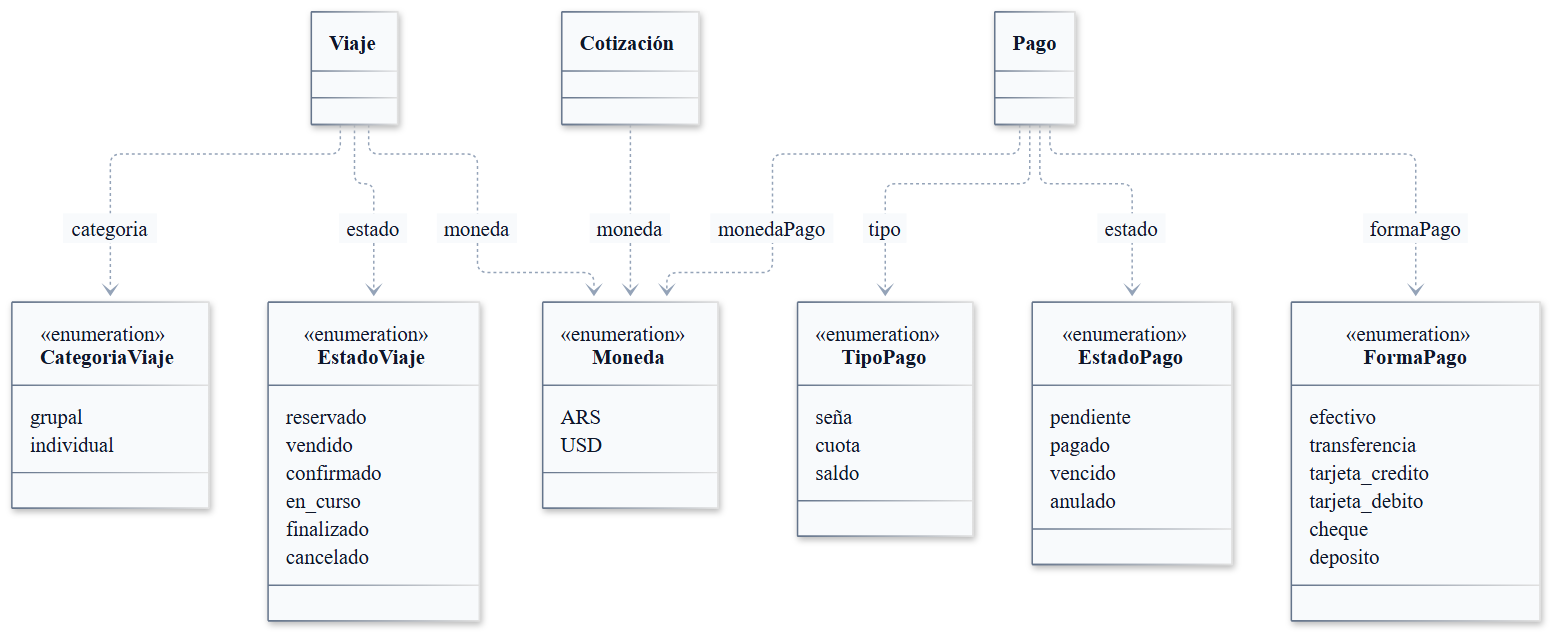
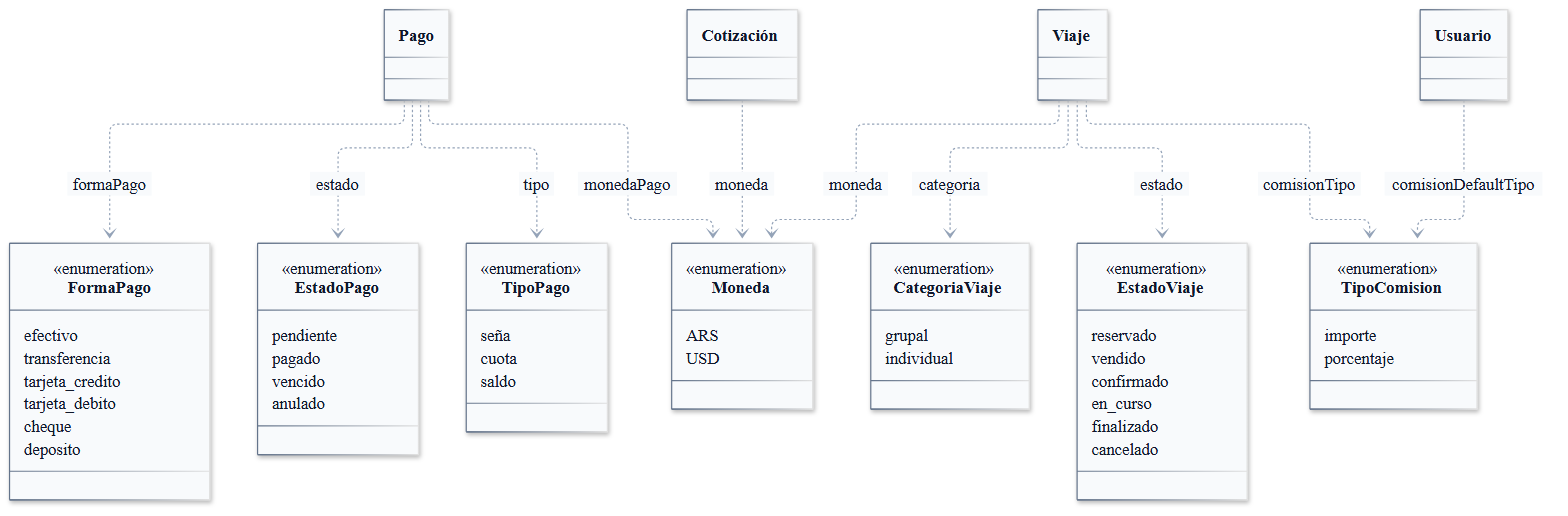
DEC-0013: fecha de cobro, tabla de configuración, tipo de comisión y acceso a redes (ER, clases, entidades y SQL)

diff --git a/05-Diseño/Datos/Modelo de datos SQL.md b/05-Diseño/Datos/Modelo de datos SQL.md
@@ -13,21 +13,23 @@ tags:: #tipo/analisis #estado/borrador #pc/pc1
 > Responde a la lámina del PC1 «Modelo de datos SQL» (paso **F2** del plan). El script es [`rumbo.sql`](rumbo.sql), en esta misma carpeta. Se deriva del [[DGM-ER]], que es la fuente: si cambia el ER, se cambia primero el ER y después el script.
 
 ## Qué contiene
-- **14 tablas:** las 13 entidades del dominio más la tabla asociativa `viaje_hotel`, con los mismos nombres del [[DGM-ER]] en minúscula.
-- **18 enumeraciones nativas** (`CREATE TYPE … AS ENUM`), con los valores del ER.
+- **15 tablas:** las 13 entidades del dominio, la tabla asociativa `viaje_hotel` y la tabla de parámetros `configuracion` (una sola fila, [[DEC-0013 Datos que faltaban en el ER|DEC-0013]]), con los mismos nombres del [[DGM-ER]] en minúscula.
+- **19 enumeraciones nativas** (`CREATE TYPE … AS ENUM`), con los valores del ER.
 - **Claves:** toda clave primaria es `uuid` con `gen_random_uuid()`, que viene incluida en PostgreSQL 13 o superior sin extensiones.
-- **Auditoría** ([[DEC-0008 Autenticación propia y rol de vendedor freelance|DEC-0008]]): las 13 tablas de entidad llevan `created_by`, `updated_by`, `created_at` y `updated_at`. `created_by` y `updated_by` son **nullable**: vacío significa «lo hizo el proceso automático». `viaje_hotel` no las lleva porque hereda la auditoría del viaje. Las completa `core.db` en la API ([[ARQ — Vista general]]).
+- **Auditoría** ([[DEC-0008 Autenticación propia y rol de vendedor freelance|DEC-0008]]): las 13 tablas de entidad y `configuracion` llevan `created_by`, `updated_by`, `created_at` y `updated_at`. `created_by` y `updated_by` son **nullable**: vacío significa «lo hizo el proceso automático». `viaje_hotel` no las lleva porque hereda la auditoría del viaje. Las completa `core.db` en la API ([[ARQ — Vista general]]).
 - **Restricciones del modelo:**
   - `alerta`: a lo sumo un origen (`viaje_id`, `pago_id`, `oportunidad_id` o `cliente_id`); ninguno en una alerta manual suelta.
   - `viaje_hotel`: `id` propio, índice **no único** en `(viaje_id, hotel_id)` y **único** en `(viaje_id, orden)`, porque el mismo hotel puede aparecer en dos tramos del mismo viaje ([[DEC-0003 Relación Viaje–Hotel y Reseña|DEC-0003]]).
   - `viaje.oportunidad_id` es único: una oportunidad deriva en a lo sumo un viaje.
   - `viaje.ganancia` y `viaje.margen` son **columnas calculadas** (`precio_venta − costo` y `ganancia / precio_venta`, [[DEC-0007 Modelo económico — ganancia, margen y comisión de vendedor|DEC-0007]]).
+  - Comisión ([[DEC-0013 Datos que faltaban en el ER|DEC-0013]]): si es `porcentaje`, no pasa de 100; en `usuario`, el tipo y el valor por defecto van juntos o no van.
+  - `configuracion` admite una sola fila (`id = 1`).
   - Chequeos de sentido común: fechas de regreso, salida y check-out que no quedan antes de las de inicio; puntaje de reseña de 1 a 5; montos no negativos; al menos un pasajero.
 - **Bajas lógicas:** ninguna FK borra en cascada, porque en Rumbo nada se elimina físicamente.
 
 ## Lo que queda en la API y no en la base
 - **Todo viaje tiene al menos un pago** (`VIAJE ||--|{ PAGO`): una FK no puede exigir filas hijas, así que lo garantiza el servicio de CU-07.
-- Los **valores por defecto configurables** (vigencia de la cotización, anticipación de las alertas) los calcula la API al crear el registro.
+- Las **fechas que dependen de un parámetro** (vencimiento de la cotización, fecha de la alerta `salida`) las calcula la API al crear el registro, leyendo `configuracion`.
 - Las **transiciones de estado** de los `EST-*` viven en `negocio/estados/`.
 
 ## Criterios de escritura
@@ -35,9 +37,9 @@ tags:: #tipo/analisis #estado/borrador #pc/pc1
 - Largos de `varchar` y precisión de `numeric` (`numeric(14,2)` para importes y `numeric(14,4)` para el tipo de cambio) son decisiones de implementación, no datos del negocio.
 
 ## Validación
-Se validó el 29/09/26 en un **PostgreSQL 18.3** local, en un clúster temporal creado solo para la prueba y borrado al terminar. El script corre completo sin errores y deja 14 tablas y 18 enumeraciones. Además se probaron, dentro de una transacción que se deshizo:
+Se validó el 29/09/26 en un **PostgreSQL 18.3** local, en un clúster temporal creado solo para la prueba y borrado al terminar. El script corre completo sin errores y deja 15 tablas y 19 enumeraciones, con la fila de `configuracion` cargada con los valores validados con la agencia (1 mes, 7 días y 6 meses). Además se probaron, dentro de una transacción que se deshizo:
 - **Casos permitidos:** un usuario con `created_by` vacío, el mismo hotel en dos tramos del mismo viaje, una alerta manual sin origen y el cálculo de `ganancia` (250.000) y `margen` (0,25) para una venta de $ 1.000.000 con costo de $ 750.000.
-- **Casos rechazados, como se esperaba:** una alerta con dos orígenes, un `orden` repetido en el mismo viaje, dos viajes desde la misma oportunidad, un puntaje de 6, un regreso anterior a la salida, un valor de enum inexistente, un email de usuario repetido y una FK a un cliente inexistente.
+- **Casos rechazados, como se esperaba:** una alerta con dos orígenes, un `orden` repetido en el mismo viaje, dos viajes desde la misma oportunidad, un puntaje de 6, un regreso anterior a la salida, un valor de enum inexistente, un email de usuario repetido una FK a un cliente inexistente, una segunda fila de `configuracion`, una comisión de viaje mayor al 100 % y una comisión por defecto con tipo pero sin valor.
 
 Para repetir la prueba sobre una base vacía:
 ```bash

diff --git a/03-Dominio/Diagramas/DGM-ER.md b/03-Dominio/Diagramas/DGM-ER.md
@@ -34,6 +34,9 @@ erDiagram
         varchar email UK
         varchar password_hash "login propio, DEC-0008"
         enum rol "admin, empleado, dueño, freelance"
+        bool acceso_redes "capacidad de redes, DEC-0013"
+        enum comision_default_tipo "nullable, importe o porcentaje"
+        numeric comision_default_valor "nullable, default del vendedor"
     }
     CLIENTE {
         uuid id PK
@@ -83,7 +86,8 @@ erDiagram
         numeric costo "del operador"
         numeric ganancia "calculado, precio_venta - costo"
         numeric margen "calculado, ganancia / precio_venta"
-        numeric comision_vendedor "importe o porcentaje sobre la ganancia"
+        enum comision_tipo "importe, porcentaje"
+        numeric comision_vendedor "importe, o % sobre la ganancia"
     }
     PAGO {
         uuid id PK
@@ -96,6 +100,7 @@ erDiagram
         enum moneda_pago "nullable, se carga al cobrar"
         numeric tipo_cambio "nullable, si difiere de VIAJE.moneda"
         numeric monto_cobrado "nullable, real recibido"
+        date fecha_cobro "nullable, fecha efectiva del cobro"
     }
     DESTINO {
         uuid id PK
@@ -170,6 +175,12 @@ erDiagram
         enum estado_kanban "idea, en_produccion, listo, publicado, descartado"
         date fecha_publicacion "programada"
     }
+    CONFIGURACION {
+        smallint id PK "una sola fila"
+        int vigencia_cotizacion_meses "default 1"
+        int anticipacion_salida_dias "default 7"
+        int recontacto_meses "default 6"
+    }
 
     USUARIO ||--o{ VIAJE : gestiona
     USUARIO |o--o{ VIAJE : vende
@@ -209,6 +220,7 @@ erDiagram
 - **Auditoría:** [[DEC-0008 Autenticación propia y rol de vendedor freelance]] exige registrar **autor y fecha** de las acciones. **Decidido en la sync del 29/09:** `created_by` / `updated_by` (FK a `USUARIO`) y `created_at` / `updated_at` van en **todas las tablas de entidad**, operativas y catálogos (las 13 entidades; la tabla asociativa `VIAJE_HOTEL` hereda la auditoría de `VIAJE`). No se dibujan en el diagrama para no multiplicar las líneas hacia `USUARIO`. **`created_by` y `updated_by` son nullable** (aprobado el 29/09): lo que hace el proceso automático diario los deja **vacíos**, y un autor vacío se lee como «lo hizo el sistema». `created_at` y `updated_at` siempre se cargan.
 - `VIAJE.destino_id` y `HOTEL.destino_id` son FK a `DESTINO` (antes texto libre): ver [[DEC-0006 Destino como entidad de catálogo]]. `OPORTUNIDAD.destino_consultado` sigue siendo **texto libre** y se normaliza recién al derivar en `VIAJE`.
 - `VIAJE` suma `operador_id`, `vendedor_id`, `moneda`, `costo`, `ganancia`, `margen` y `comision_vendedor` — ver [[DEC-0007 Modelo económico — ganancia, margen y comisión de vendedor]] y [[DEC-0009 Operador-Proveedor como entidad de catálogo]] (sync 17/09). `ganancia` y `margen` son **calculados**: se pueden materializar como columnas generadas o resolver en la vista.
+- **Datos sumados al escribir el SQL** ([[DEC-0013 Datos que faltaban en el ER]], 29/09, a ratificar): `PAGO.fecha_cobro`; `VIAJE.comision_tipo` (`importe` o `porcentaje`); en `USUARIO`, `acceso_redes` y la comisión por defecto del vendedor (`comision_default_tipo` y `comision_default_valor`); y la tabla **`CONFIGURACION`**, de una sola fila, con los parámetros que edita `admin` (vigencia de la cotización, anticipación de la alerta `salida` y plazo del recontacto). `CONFIGURACION` es una tabla de parámetros, no una entidad del dominio, y no se relaciona con las demás. Con ella el esquema tiene **15 tablas**.
 - `COTIZACION.items` se modela como **`jsonb`**, no como tabla propia: decidido el 21/09 no promoverlo a entidad ([[DGM — Diagrama de clases]], punto 4). Si más adelante hacen falta reportes por concepto, se reabre.
 - Relación N:M `VIAJE`–`HOTEL` y objeto de la `RESENA` (Hotel + Cliente, con Viaje opcional): ver [[DEC-0003 Relación Viaje–Hotel y Reseña]].
 

diff --git a/05-Diseño/Decisiones/DEC-0013 Datos que faltaban en el ER.md b/05-Diseño/Decisiones/DEC-0013 Datos que faltaban en el ER.md
@@ -1,0 +1,46 @@
+---
+tipo: decision
+estado: en-revision
+modulo: [economia, configuracion, seguridad]
+decisores: [Nahuel]
+fecha_aprobacion:
+supersede:
+actualizado: 29/09/26
+---
+# DEC-0013 Datos que faltaban en el ER
+
+tags:: #tipo/decision #estado/en-revision #pc/pc1
+
+> ⏳ **Aprobada por Nahuel el 29/09/26**, al escribir el script SQL (F2) y el contrato OpenAPI (F1). Se ratifica con el equipo en el cierre del día 2 (A6), junto con ARQ.
+
+## Contexto
+Al pasar el [[DGM-ER]] a SQL aparecieron cuatro datos que los casos de uso y las decisiones ya piden, pero que el ER no tenía dónde guardar:
+1. [[CU-12 Registrar cobro de un pago|CU-12]] pide la **fecha efectiva del cobro**, y `PAGO` no tenía esa columna.
+2. La **vigencia de la cotización** (1 mes), la **anticipación de la alerta `salida`** (7 días) y el **plazo del recontacto** (6 meses) son configurables por `admin` ([[CU-06 Emitir cotización|CU-06]], [[CU-07 Confirmar reserva|CU-07]], [[CU-30 Sugerir recontacto de clientes|CU-30]]), pero no había tabla de parámetros.
+3. La comisión del vendedor es **importe o porcentaje**, con **default por vendedor** y override por viaje ([[DEC-0007 Modelo económico — ganancia, margen y comisión de vendedor|DEC-0007]], [[CU-13 Configurar porcentaje de comisión|CU-13]]), pero el ER solo tenía `VIAJE.comision_vendedor` como número, sin tipo y sin default en `USUARIO`.
+4. El **acceso al módulo de redes** es una capacidad que asigna `admin` ([[DEC-0005 Autenticación y modelo de roles|DEC-0005]]), pero `USUARIO` no tenía dónde guardarla.
+
+## Decisión
+1. **`PAGO.fecha_cobro`** (`date`, nullable): se carga al cobrar, junto con `forma_pago` y `moneda_pago`, y se borra si se revierte el cobro.
+2. **Tabla `CONFIGURACION` de una sola fila**, con columnas tipadas y los valores validados con la agencia como default: `vigencia_cotizacion_meses` = 1, `anticipacion_salida_dias` = 7 y `recontacto_meses` = 6. Es una tabla de parámetros, **no una entidad del dominio**: el dominio sigue teniendo 13 entidades. La edita `admin`.
+3. **Comisión con tipo y valor:** nuevo enum `tipo_comision` (`importe`, `porcentaje`; el porcentaje es sobre la ganancia). `USUARIO` suma `comision_default_tipo` y `comision_default_valor` (ambos nullable, porque no todo usuario vende). `VIAJE` suma `comision_tipo` junto a `comision_vendedor`. Cambiar el default de un vendedor no recalcula los viajes ya registrados.
+4. **`USUARIO.acceso_redes`** (`boolean`, default `false`). `admin` y `dueño` tienen acceso por su rol, sin importar el valor.
+
+## Alternativas consideradas
+| Opción | Pros | Contras | ¿Elegida? |
+|---|---|---|---|
+| Fecha del cobro = `updated_at` del pago | Sin columna nueva | Se pierde si se cobra con fecha anterior o se edita después | ❌ |
+| Parámetros en variables de entorno | Simple | No los puede cambiar `admin` desde la app | ❌ |
+| Parámetros como tabla clave-valor | Flexible | Pierde los tipos y los CHECK de la base | ❌ |
+| Guardar siempre la comisión como importe ya calculado | Más simple | Se pierde qué porcentaje se aplicó | ❌ |
+
+## Impacto
+- [[DGM-ER]], [[DGM — Diagrama de clases]] (nuevo enum `TipoComision`: son 19) y las notas de [[Pago]], [[Usuario]] y [[Viaje]].
+- [[Modelo de datos SQL]]: pasa a 15 tablas y 19 enumeraciones.
+- Contrato OpenAPI (F1): los esquemas de `Viaje` y `Pago` y los endpoints de configuración.
+
+## Decisores y fecha
+- Nahuel — aprobada el 29/09/26; a ratificar con el equipo.
+
+## Vínculo con el código (a partir de PC2)
+- Rama: `-` · Commits: `-`

diff --git a/03-Dominio/Diagramas/DGM — Diagrama de clases.md b/03-Dominio/Diagramas/DGM — Diagrama de clases.md
@@ -43,6 +43,9 @@ classDiagram
         +String nombre
         +String email
         +RolUsuario rol
+        +Bool accesoRedes
+        +TipoComision comisionDefaultTipo
+        +Decimal comisionDefaultValor
     }
     class Cliente {
         +UUID id
@@ -84,6 +87,7 @@ classDiagram
         +Decimal costo
         +Decimal ganancia
         +Decimal margen
+        +TipoComision comisionTipo
         +Decimal comisionVendedor
     }
     class Pago {
@@ -96,6 +100,7 @@ classDiagram
         +Moneda monedaPago
         +Decimal tipoCambio
         +Decimal montoCobrado
+        +Date fechaCobro
     }
     class Operador {
         +UUID id
@@ -209,7 +214,7 @@ classDiagram
 
 ## Enumeraciones del dominio
 
-Las **18 enumeraciones** son parte del mismo modelo; se muestran en tres bandas agrupadas por módulo para que cada una entre legible en una hoja. La caja de la clase va **sin atributos** (ya están en la vista principal) y cada **dependencia punteada** indica qué atributo usa la enumeración. `Moneda` es la única compartida: la usan [[Viaje]], [[Cotización]] y [[Pago]].
+Las **19 enumeraciones** son parte del mismo modelo; se muestran en tres bandas agrupadas por módulo para que cada una entre legible en una hoja. La caja de la clase va **sin atributos** (ya están en la vista principal) y cada **dependencia punteada** indica qué atributo usa la enumeración. `Moneda` es la única compartida: la usan [[Viaje]], [[Cotización]] y [[Pago]].
 
 ### 1 · CRM y seguridad
 
@@ -314,6 +319,11 @@ classDiagram
         cheque
         deposito
     }
+    class TipoComision {
+        <<enumeration>>
+        importe
+        porcentaje
+    }
     Viaje ..> CategoriaViaje : categoria
     Viaje ..> EstadoViaje : estado
     Viaje ..> Moneda : moneda
@@ -322,6 +332,8 @@ classDiagram
     Pago ..> TipoPago : tipo
     Pago ..> EstadoPago : estado
     Pago ..> FormaPago : formaPago
+    Viaje ..> TipoComision : comisionTipo
+    Usuario ..> TipoComision : comisionDefaultTipo
 ```
 
 ### 3 · Catálogo, post-venta, alertas y redes
@@ -421,6 +433,7 @@ Se señalaron sin elegir una versión en silencio, según [[CLAUDE|CLAUDE.md#Ord
 - ✅ Lo resuelto el 21/09 ya está propagado a [[DGM-ER]] (`VIAJE ||--|{ PAGO` y los 4 orígenes de `ALERTA`) y a la nota de [[Viaje]].
 - ✅ El [[DGM-ER]] quedó **completo y coherente** con este diagrama el 21/09: sumó los atributos de las 14 tablas y las 4 relaciones que le faltaban (`USUARIO`–`ALERTA`, `USUARIO`–`CLIENTE`, `USUARIO`–`OPORTUNIDAD`, `DESTINO`–`REQUISITO_DESTINO`).
 - ✅ Auditoría (sync 29/09): `created_by`/`updated_by`/`created_at`/`updated_at` en **todas** las tablas de entidad (operativas y catálogos); no se dibujan para no multiplicar las líneas hacia `Usuario`. Ver [[DGM-ER]].
+- ⏳ [[DEC-0013 Datos que faltaban en el ER]] (29/09, a ratificar): `Pago.fechaCobro`, `Viaje.comisionTipo`, `Usuario.accesoRedes` y la comisión por defecto del vendedor, con el nuevo enum `TipoComision`.
 - Renderizar el PNG (mermaid-cli, motor ELK) cuando el diagrama se incorpore a un entregable — ver [[Entregables — índice]].
 
 ## Relacionado

diff --git a/03-Dominio/MOC — Modelo de dominio.md b/03-Dominio/MOC — Modelo de dominio.md
@@ -16,7 +16,7 @@ tags:: #tipo/diagrama #tipo/modulo #estado/en-revision #pc/pc1
 [[Usuario]] · [[Cliente]] · [[Oportunidad]] · [[Viaje]] · [[Pago]] · [[Hotel]] · [[Reseña]] · [[Alerta]] · [[Cotización]] · [[ContenidoRed]] · [[Destino]] · [[RequisitoDestino]] · [[Operador]] ⚠(nueva 17/09, [[DEC-0009 Operador-Proveedor como entidad de catálogo]])
 
 ## Diagrama de clases
-- Ver [[DGM — Diagrama de clases]] (vista principal + las 18 enumeraciones). **El borrador que vivía acá se movió a esa nota el 21/09**, para que este MOC quede corto y haya una sola fuente del diagrama.
+- Ver [[DGM — Diagrama de clases]] (vista principal + las 19 enumeraciones). **El borrador que vivía acá se movió a esa nota el 21/09**, para que este MOC quede corto y haya una sola fuente del diagrama.
 - Cambios respecto del borrador: los FK dejan de listarse como atributos (los expresan las asociaciones), las enumeraciones pasan a clases `<<enumeration>>` y `viaje_hotel` se promueve a la clase asociativa `ViajeHotel`. Detalle y motivo en la sección *Convenciones de lectura* de esa nota.
 - Las **4 incoherencias detectadas las resolvió Nahuel el 21/09** (ratificadas en la sync del 29/09) y ya están propagadas a [[DGM-ER]] y a la nota de [[Viaje]]: `Viaje`–`Pago` es **`1..*`** (todo viaje tiene al menos un pago: [[CU-07 Confirmar reserva]] incluye [[CU-11 Definir plan de cuotas|CU-11]]), `Viaje`–`Alerta` es **`0..1` → `0..*`**, el **origen de la `Alerta`** en el ER se modela con **cuatro FK nullable + CHECK** (no polimórfico), y `Cotización.items` **queda como atributo**, sin entidad propia.
 - ✅ El [[DGM-ER]] quedó **completo** el 21/09: atributos de las 14 tablas y las 4 relaciones que le faltaban (`USUARIO`–`ALERTA`, `USUARIO`–`CLIENTE`, `USUARIO`–`OPORTUNIDAD`, `DESTINO`–`REQUISITO_DESTINO`). Los dos diagramas usan el motor **ELK** (líneas rectas ortogonales).

diff --git a/05-Diseño/Arquitectura/ARQ — Vista general.md b/05-Diseño/Arquitectura/ARQ — Vista general.md
@@ -180,7 +180,7 @@ flowchart LR
 |---|---|---|---|
 | **1 · Presentación** | `presentacion/` | Recibe el pedido HTTP, valida el JSON con los esquemas Pydantic (que publican el contrato OpenAPI), identifica al usuario validando su token con `core.seguridad` y llama a un servicio. `jobs/diario.py` es el otro punto de entrada: lo ejecuta el scheduler a las 00:00. | No tiene reglas de negocio ni consultas. |
 | **2 · Lógica de negocio** | `negocio/` | Los **servicios** orquestan un caso de uso completo en **una transacción**: por ejemplo, confirmar la reserva crea el `Viaje`, el plan de cuotas y las alertas, y pasa la `Oportunidad` a `ganada` (CU-07). Los **estados** aplican las transiciones de los `EST-*` y rechazan las inválidas. Las **políticas** deciden qué puede ver y editar cada rol. Los **prompts** definen qué se le pide a la IA y con qué límites. | No arma SQL ni conoce HTTP. |
-| **3 · Acceso a datos** | `datos/` | Los **modelos** mapean las 14 tablas del [[DGM-ER]] y los **repositorios** buscan y guardan, usando la sesión de `core.db`. | No decide reglas de negocio. |
+| **3 · Acceso a datos** | `datos/` | Los **modelos** mapean las 15 tablas del [[DGM-ER]] y los **repositorios** buscan y guardan, usando la sesión de `core.db`. | No decide reglas de negocio. |
 | **core** | `core/` | **`config`** lee la configuración del entorno. **`db`** crea el motor y la sesión de SQLAlchemy (una transacción por pedido) y completa la auditoría antes de cada guardado. **`seguridad`** hashea contraseñas y emite y valida tokens. **`ia`** habla con la API de Claude por LangChain. | No conoce ninguna capa ni tiene reglas del negocio. |
 
 **Cómo se reparten las reglas transversales:**

diff --git a/00-Inicio/Estado del proyecto.md b/00-Inicio/Estado del proyecto.md
@@ -68,6 +68,7 @@ Los tres tomamos **los tres roles** (Coordinador de vault · Guardián del domin
 - ✅ **Arquitectura en tres capas + `core`** (A3, Nahuel): ver *Vista lógica del backend* en [[ARQ — Vista general]].
 - ✅ **Auditoría del proceso automático** (aprobado 29/09, Nahuel con el equipo): lo que hace `jobs.diario` queda con `created_by`/`updated_by` **vacíos** (= «lo hizo el sistema»), así que esas columnas son **nullable** en el script SQL (F2). ✅ Anotado en [[DGM-ER]] junto a la nota de auditoría.
 - ✅ **Ajustes del túnel** (aprobado 29/09): ✅ aplicados en [[DEC-0011 Infraestructura de despliegue on-premise]] y en la vista de despliegue de ARQ (PNG regenerado): (1) quinto contenedor `cloudflared` en el Compose, con el token en el `.env` del servidor; (2) riesgo aceptado: Cloudflare termina el TLS y ve el tráfico descifrado; (3) **todos** los usuarios, también desde la red local, entran por la URL del túnel (la entrada local directa queda solo como respaldo si se cae internet).
+- ⏳ **[[DEC-0013 Datos que faltaban en el ER]]** (aprobada por Nahuel el 29/09 al escribir F2; **a ratificar en A6**): `Pago.fecha_cobro`, tabla `configuracion` de una fila (vigencia de cotización, anticipación de `salida` y recontacto), comisión con tipo (`importe`/`porcentaje`) y default por vendedor en `Usuario`, y `Usuario.acceso_redes`. Ya propagada a ER, clases, entidades y SQL.
 
 ### Día 1 — mié 30/09: construir las bases
 - **Nahuel:** A2 (vista de despliegue con DEC-0011) → A3 (vista lógica del backend) → **F2** script SQL validado contra un PostgreSQL local.

diff --git a/00-Inicio/Bitácora de sesiones.md b/00-Inicio/Bitácora de sesiones.md
@@ -30,6 +30,10 @@ Es **obligatorio** nombrar a la persona que hizo la sesión.
 - **Pendiente:** …
 ```
 
+## 29/09/26 — Nahuel (Claude Opus 5.5) — DEC-0013: datos que faltaban en el ER
+- **Hecho:** Al preparar F1 aparecieron cuatro datos que los CU piden y el ER no guardaba. Nahuel aprobó las cuatro propuestas y quedaron en [[DEC-0013 Datos que faltaban en el ER]] (`en-revision`, a ratificar en A6): `PAGO.fecha_cobro`, tabla `CONFIGURACION` de una fila (1 mes, 7 días y 6 meses), comisión con `tipo_comision` en `VIAJE` y default por vendedor en `USUARIO`, y `USUARIO.acceso_redes`. Propagado a [[DGM-ER]], [[DGM — Diagrama de clases]] (19 enums), [[Pago]], [[Usuario]], [[Viaje]], ARQ y [[Modelo de datos SQL]].
+- **Verificado:** PNG de clases y ER regenerados; el script vuelve a correr en PostgreSQL 18.3 (15 tablas, 19 enums) y pasan 14 casos de prueba (3 permitidos y 11 rechazados).
+
 ## 29/09/26 — Nahuel (Claude Opus 5.5) — F2: script SQL
 - **Hecho:** `05-Diseño/Datos/rumbo.sql` con las 14 tablas y los 18 enums del [[DGM-ER]], `gen_random_uuid()`, auditoría nullable, el CHECK de origen de `alerta`, la unicidad de `viaje_hotel` y `ganancia`/`margen` como columnas calculadas. Nota índice: [[Modelo de datos SQL]].
 - **Verificado:** en un clúster PostgreSQL 18.3 temporal (el servidor local de la PC pide contraseña, así que no se usó): el script corre sin errores y 11 casos de prueba dan lo esperado (3 permitidos y 8 rechazados).

diff --git a/03-Dominio/Entidades/Viaje.md b/03-Dominio/Entidades/Viaje.md
@@ -29,6 +29,7 @@ Reserva concreta de un cliente: destino, fechas, categoría, estado y control ec
 | ganancia | Decimal (calc.) | `precioVenta − costo`. Se calcula automáticamente — [[RN-01 Comisión automática]], [[DEC-0007 Modelo económico — ganancia, margen y comisión de vendedor]] |
 | margen | Decimal % (calc.) | Ganancia en porcentaje **sobre la venta**: `ganancia / precioVenta` — [[DEC-0007 Modelo económico — ganancia, margen y comisión de vendedor]] |
 | vendedor | FK → [[Usuario]] (opcional) | Vendedor/freelancer que hizo la venta (para liquidar su comisión) — [[DEC-0007 Modelo económico — ganancia, margen y comisión de vendedor]], [[DEC-0008 Autenticación propia y rol de vendedor freelance]] |
+| comision_tipo | Enum | `importe · porcentaje`: cómo se lee `comision_vendedor` — [[DEC-0013 Datos que faltaban en el ER|DEC-0013]] |
 | comision_vendedor | Decimal | Comisión a pagar al `vendedor`: **importe o %** (el % sobre la ganancia); **default por vendedor + override** por viaje. **Separada** de la ganancia — [[DEC-0007 Modelo económico — ganancia, margen y comisión de vendedor]] |
 | responsable | FK → [[Usuario]] | Empleado a cargo del viaje; define la vista personal. Ver [[DEC-0005 Autenticación y modelo de roles]] |
 

diff --git a/03-Dominio/Entidades/Pago.md b/03-Dominio/Entidades/Pago.md
@@ -26,6 +26,7 @@ Registro de un pago o cuota de un [[Viaje]], con vencimiento y estado. El sistem
 | moneda_pago | Enum (se completa al cobrar) | ARS / USD — **moneda real** en que se cobró el pago; **puede diferir** de `Viaje.moneda` (un mismo viaje admite pagos parte en ARS y parte en USD). Ver [[DEC-0007 Modelo económico — ganancia, margen y comisión de vendedor]] |
 | tipo_cambio | Decimal (se completa al cobrar, opcional) | Cotización que **carga el empleado al cobrar** cuando `moneda_pago` ≠ `Viaje.moneda`; permite reconstruir el equivalente en la moneda de referencia |
 | monto_cobrado | Decimal (se completa al cobrar) | Importe **real recibido** en `moneda_pago` (= `monto` si misma moneda; `monto × tipo_cambio` si difiere). Sirve para caja y para el reporte de formas de pago |
+| fecha_cobro | Date (dd/mm/aa, se completa al cobrar) | **Fecha efectiva** del cobro ([[CU-12 Registrar cobro de un pago|CU-12]]); se borra si se revierte el cobro — [[DEC-0013 Datos que faltaban en el ER|DEC-0013]] |
 
 ## Relaciones
 - *..1 con [[Viaje]]

diff --git a/03-Dominio/Entidades/Usuario.md b/03-Dominio/Entidades/Usuario.md
@@ -21,6 +21,8 @@ Persona que **opera** el sistema. Un mismo Usuario puede tener varios roles (PyM
 | nombre | String | Nombre |
 | email | String | Login |
 | rol | Enum | admin · empleado · dueño · **freelance** — `freelance` (vendedor externo, visibilidad restringida) según [[DEC-0008 Autenticación propia y rol de vendedor freelance]]. Ver [[DEC-0005 Autenticación y modelo de roles]] y [[Actores]] |
+| acceso_redes | Bool | **Capacidad** de usar el módulo de redes ([[ContenidoRed]]), asignada por `admin`; `admin` y `dueño` la tienen por rol — [[DEC-0013 Datos que faltaban en el ER|DEC-0013]] |
+| comision_default_tipo / comision_default_valor | Enum `importe · porcentaje` + Decimal (opcionales) | **Comisión por defecto** del vendedor ([[CU-13 Configurar porcentaje de comisión|CU-13]]); el porcentaje es sobre la ganancia — [[DEC-0013 Datos que faltaban en el ER|DEC-0013]] |
 
 ## Relaciones
 - 1..* con [[Viaje]] — gestiona

diff --git a/05-Diseño/MOC — Decisiones (ADR).md b/05-Diseño/MOC — Decisiones (ADR).md
@@ -23,6 +23,7 @@ tags:: #tipo/modulo #estado/formalizado
 - [[DEC-0010 Notación de los diagramas de actividad y de secuencia]] (formalizada 29/09)
 - [[DEC-0011 Infraestructura de despliegue on-premise]] (formalizada 29/09)
 - [[DEC-0012 Modelo de IA del producto]] (formalizada 29/09)
+- [[DEC-0013 Datos que faltaban en el ER]] (en revisión; a ratificar en A6)
 
 ## Todas (Dataview)
 ```dataview
